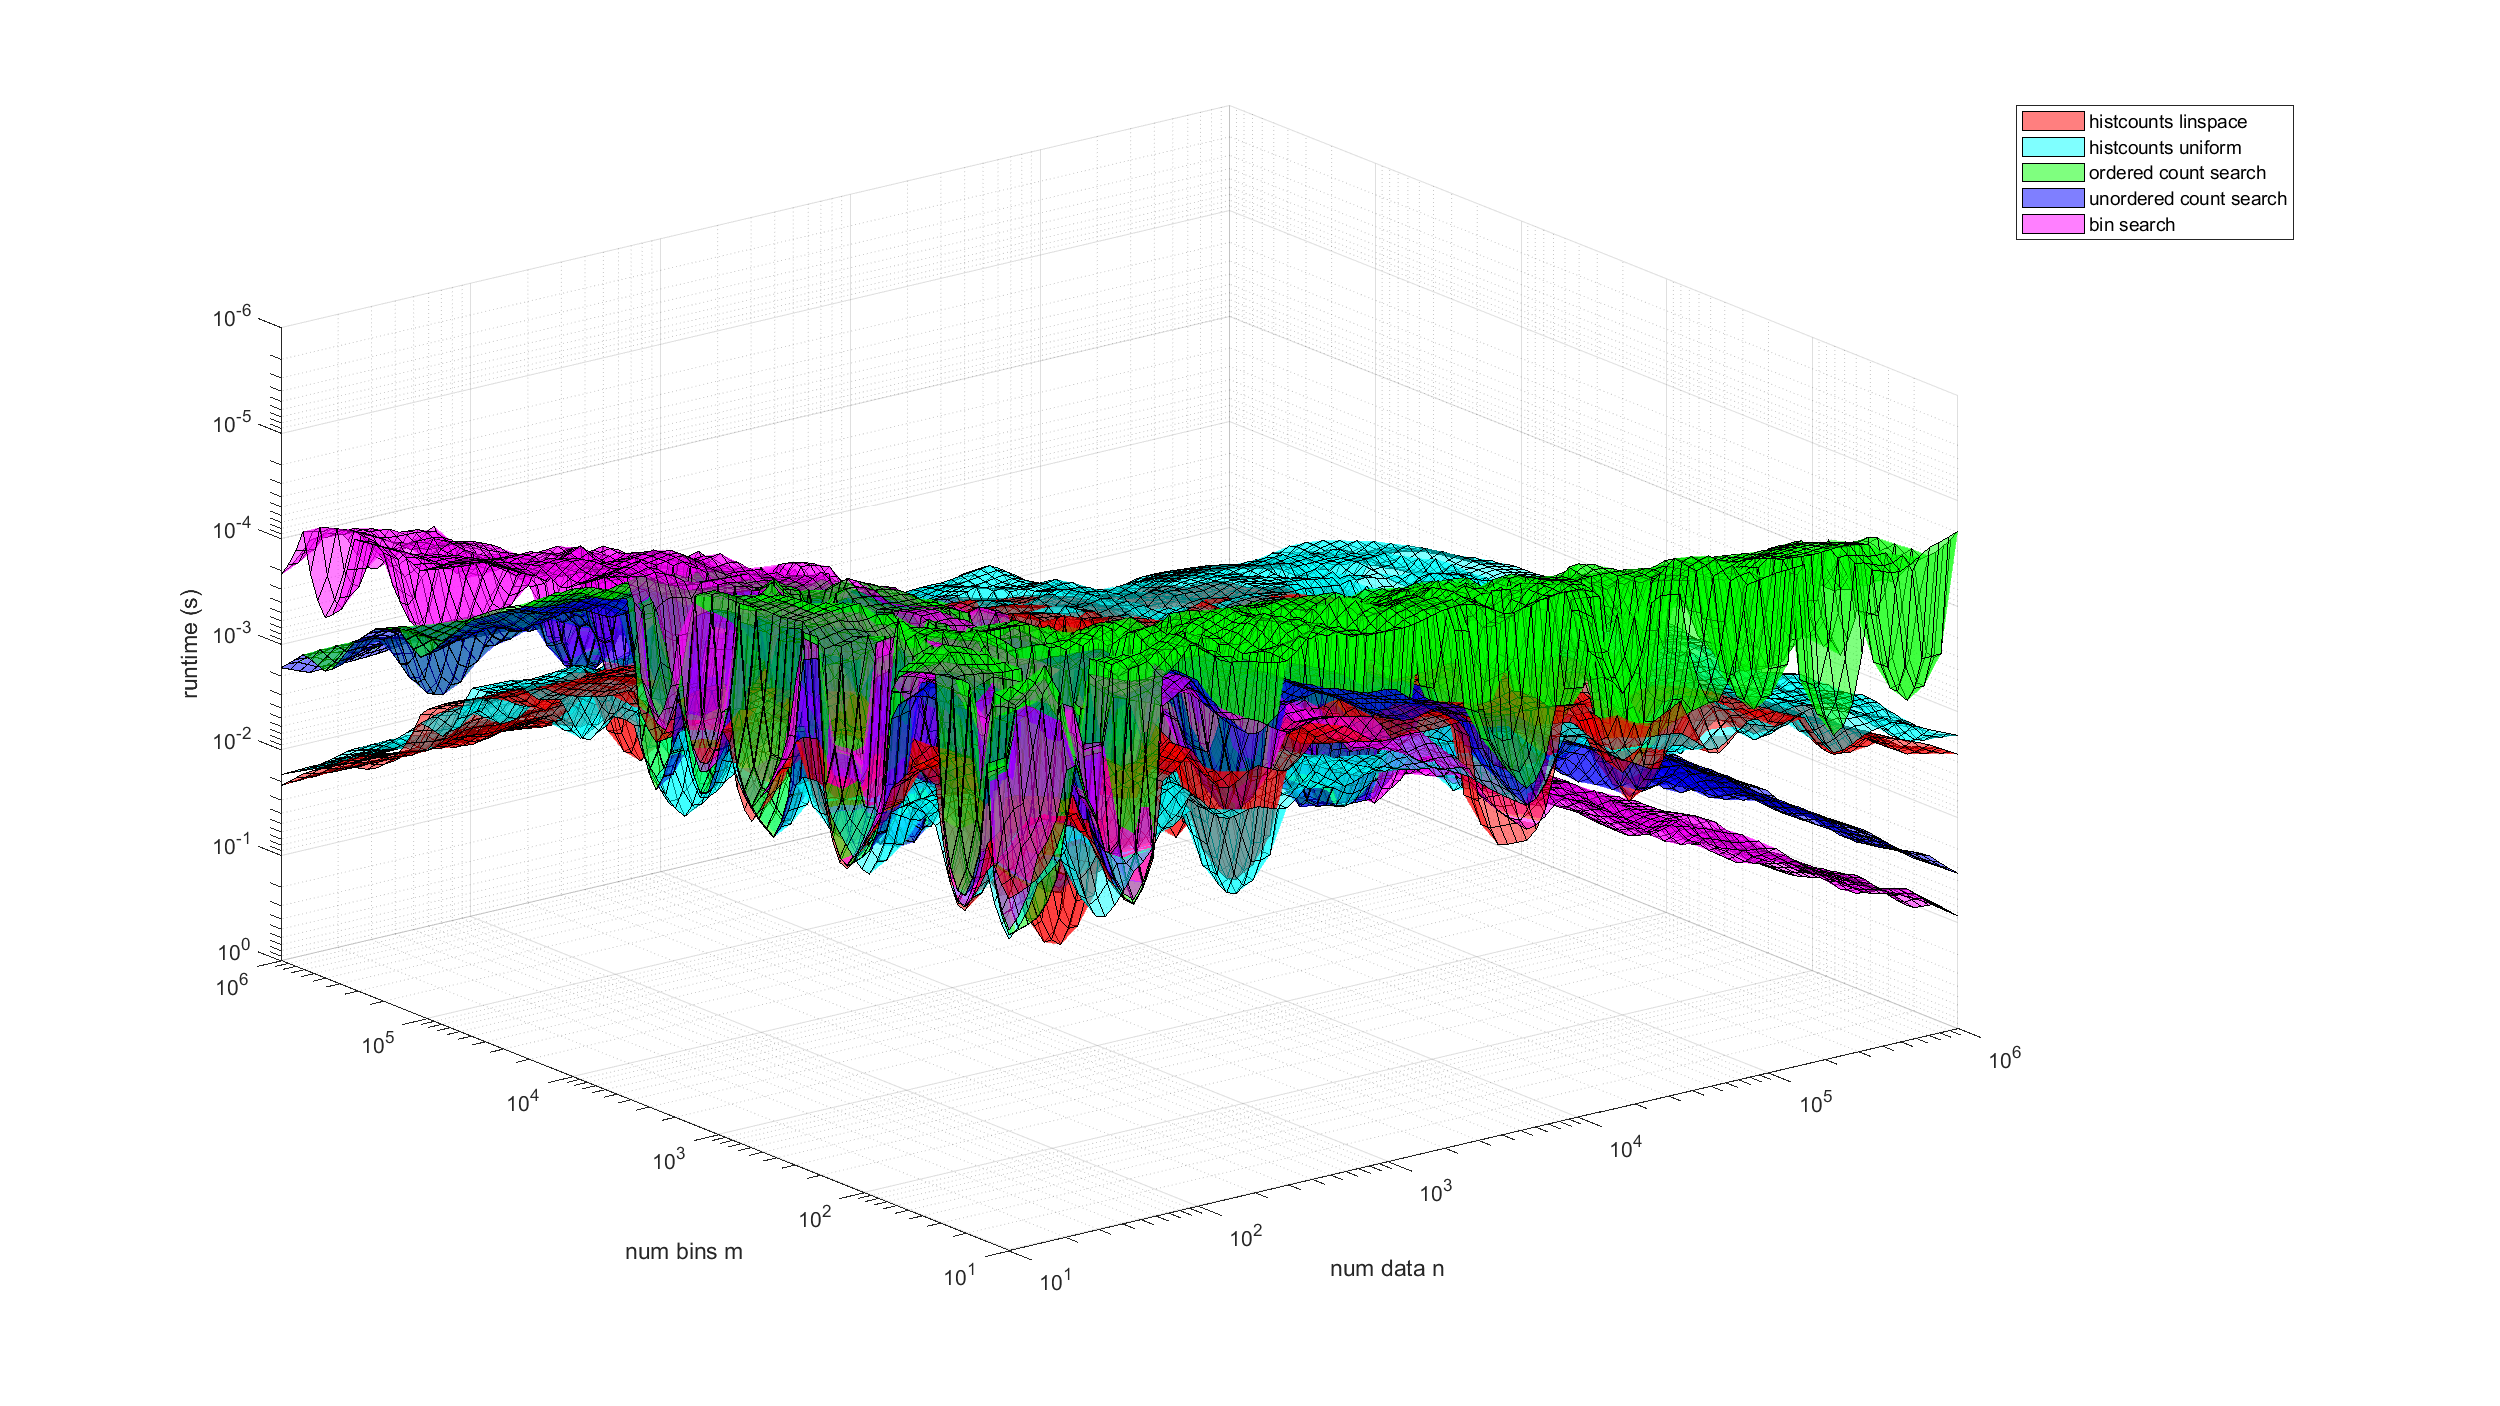
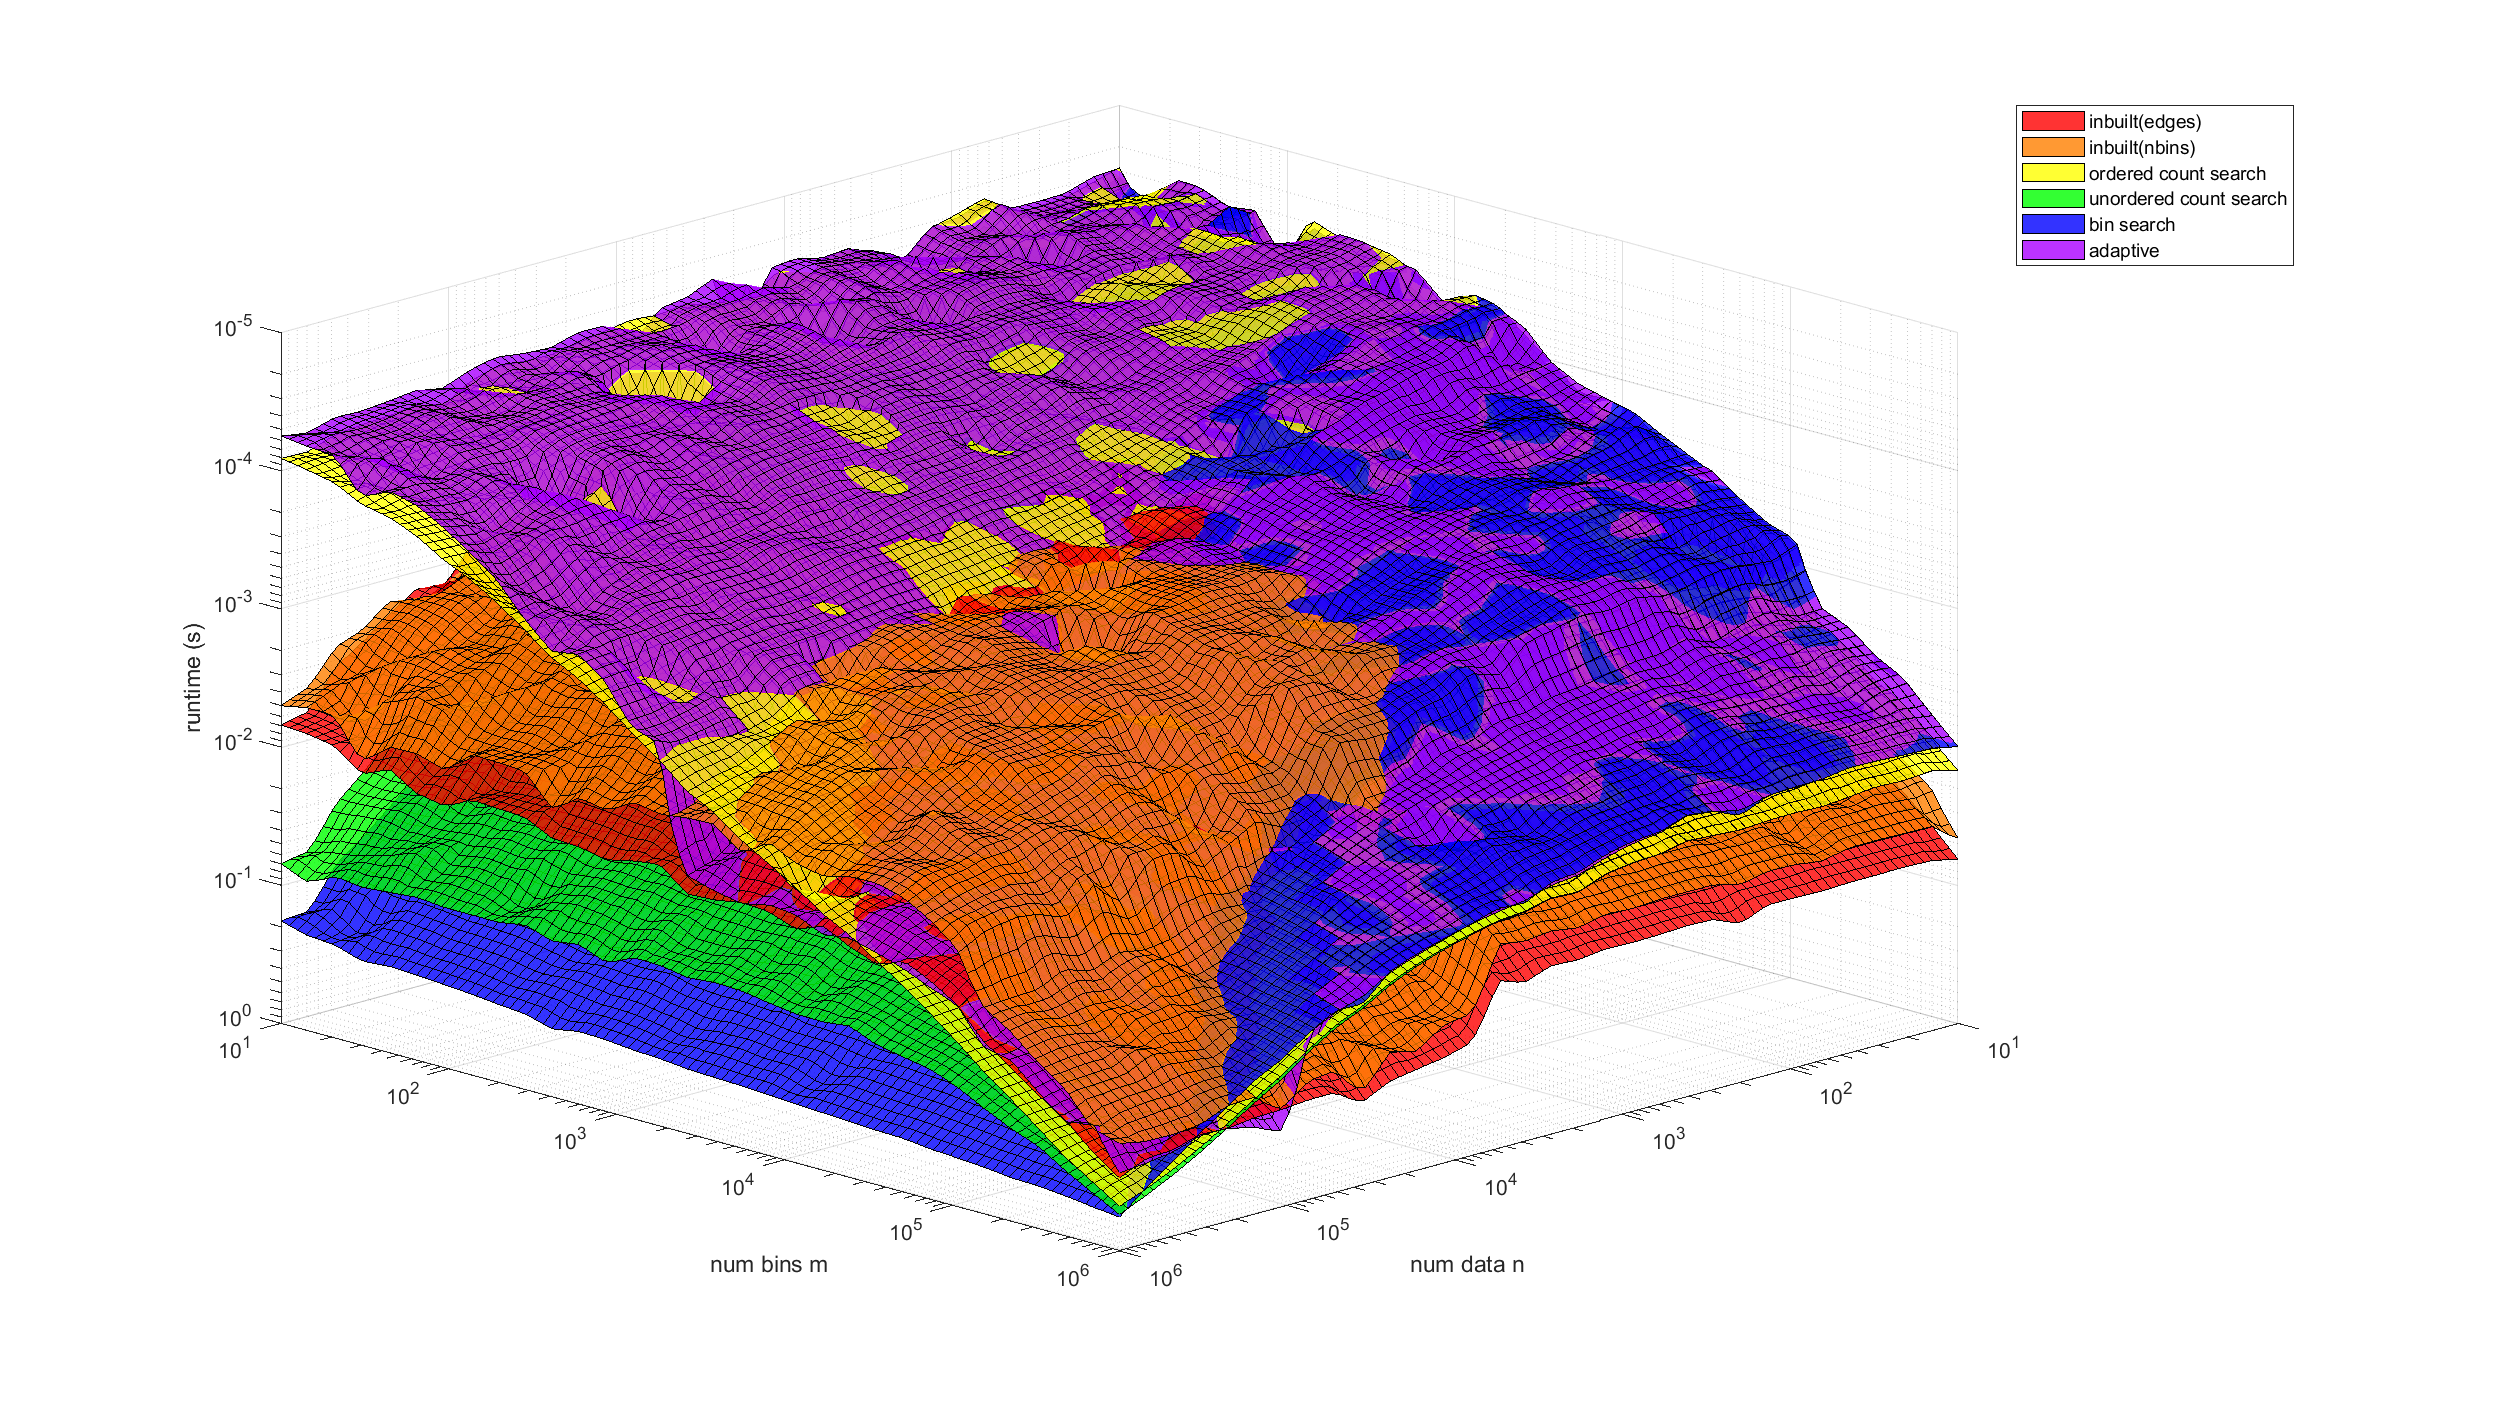
added more complexity to adaptive method & added it to the scalling test

diff --git a/scaling_test.m b/scaling_test.m
@@ -58,7 +58,7 @@ clf
 set(gcf,'color','w')
 set(gcf, 'Units', 'pixels', 'Position', [100, 100, 1600, 900])
 
-surface_colors= prism(5);
+surface_colors= prism(6);
 
 fprintf('  \n%04u:%04u',iimax,0) 
 for ii=1:iimax
@@ -72,10 +72,12 @@ for ii=1:iimax
     runtimes(ii,3)=meth_det.core_times.histcounts_nbins;
     runtimes(ii,4)=meth_det.core_times.hist_bin_search;
     runtimes(ii,5)=meth_det.core_times.hist_count_search-meth_det.aux_times.sort;
+    runtimes(ii,6)=meth_det.core_times.adaptive;
     
 
     ptime=posixtime(datetime('now'));
     if ptime-last_update>update_interval && ii>30 || ii==iimax
+        %TODO: clean this up, so much repeated code
         %matlab inbuilt histcounts(edges)
         f_interp= scatteredInterpolant(num_counts_vec(1:ii),...
             num_edges_vec(1:ii),runtimes(1:ii,2));
@@ -96,6 +98,10 @@ for ii=1:iimax
         f_interp = scatteredInterpolant(num_counts_vec(1:ii),...
             num_edges_vec(1:ii),runtimes(1:ii,4));
         time_bsearch_interp=f_interp(num_counts_query,num_edges_query);
+        %adaptive method
+         f_interp = scatteredInterpolant(num_counts_vec(1:ii),...
+            num_edges_vec(1:ii),runtimes(1:ii,6));
+        time_adaptive_interp=f_interp(num_counts_query,num_edges_query);
         
         surface_alpha=0.8;
         sfigure(1);
@@ -105,8 +111,9 @@ for ii=1:iimax
         surf(num_counts_query,num_edges_query,time_ocsearch_interp,'FaceAlpha',surface_alpha,'FaceColor', surface_colors(3,:))
         surf(num_counts_query,num_edges_query,time_ucsearch_interp,'FaceAlpha',surface_alpha,'FaceColor', surface_colors(4,:))
         surf(num_counts_query,num_edges_query,time_bsearch_interp,'FaceAlpha',surface_alpha,'FaceColor', surface_colors(5,:))
+        surf(num_counts_query,num_edges_query,time_adaptive_interp,'FaceAlpha',surface_alpha,'FaceColor', surface_colors(6,:))
         hold off
-        legend('inbuilt(edges)','inbuilt(nbins)','ordered count search','unordered count search','bin search')
+        legend('inbuilt(edges)','inbuilt(nbins)','ordered count search','unordered count search','bin search','adaptive')
         set(gca,'XScale','log','YScale','log','ZScale','log')
         set(gca, 'Zdir', 'reverse')
         xlabel('num data n')

diff --git a/compare_method_speeds.m b/compare_method_speeds.m
@@ -1,6 +1,9 @@
 function [best_method_str,details,best_method_num]=compare_method_speeds(x_dat,bin_lims,bins)
 % calculate the runtime of various histogram methods
 % also check that they return the same answers
+% TODO
+% -docs
+% -issorted flag
 
 meth_times=[];
 aux_times=[];
@@ -52,14 +55,24 @@ if ~isequal(out.histcounts_edges,out.hist_count_search)
     error('histcounts_edges and hist_count_search did not return the same output')
 end
 
+timer_handle=tic;
+out.adaptive=adaptive_hist_method(x_dat,edges,1);
+meth_times.adaptive=toc(timer_handle);
+
+if ~isequal(out.histcounts_edges,out.adaptive)
+    error('histcounts_edges and adaptive did not return the same output')
+end
+
+
+
 % to be perfectly fair the methods that used the edge vector must have the edge vector generation time added
 meth_times.histcounts_edges=aux_times.gen_edges+meth_times.histcounts_edges;
 meth_times.hist_bin_search=aux_times.gen_edges+meth_times.hist_bin_search;
 meth_times.hist_count_search=aux_times.gen_edges+meth_times.hist_count_search;
+meth_times.adaptive=aux_times.gen_edges+meth_times.adaptive; %TODO: deal better with the adaptive is_sorted case
 
 
 meth_times.hist_count_search=meth_times.hist_count_search+aux_times.sort;
-
 
 feild_names=fields(meth_times);
 [~,min_idx]=min(cell2mat(struct2cell(meth_times)));

diff --git a/test_search_based_hist.m b/test_search_based_hist.m
@@ -53,9 +53,12 @@ fprintf('equality testing : %s\n',logic_str{isequal(out1,out2)+1})
 data=rand(1e6,1);
 [best_method_str,meth_det]=compare_method_speeds(data,[0.5,1.1],1e2);
 
-%%
+
 
 %% randomized equality testing
+
+yn_logic_str={'no','yes'}; %for non critical cases
+
 iimax=100;
 for ii=1:iimax
 data=rand(ceil(1+rand(1)*1e6),1);
@@ -96,8 +99,8 @@ fprintf('equality testing matlab=adaptive_meth: %s\n',logic_str{is_count_search_
 if ~is_bin_search_right || ~is_count_search_right
     return
 end
-fprintf('Speedup test   bin_search            : %s \n',logic_str{(time_bin_search<time_inbuilt)+1})
-fprintf('Speedup test   count_search          : %s \n',logic_str{(time_count_search<time_inbuilt)+1})
-fprintf('Speedup test   adpative_meth         : %s \n',logic_str{(time_adaptive<time_inbuilt)+1})
+fprintf('Speedup test   bin_search            : %s \n',yn_logic_str{(time_bin_search<time_inbuilt)+1})
+fprintf('Speedup test   count_search          : %s \n',yn_logic_str{(time_count_search<time_inbuilt)+1})
+fprintf('Speedup test   adpative_meth         : %s \n',yn_logic_str{(time_adaptive<time_inbuilt)+1})
 end
 

diff --git a/adaptive_hist_method.m b/adaptive_hist_method.m
@@ -47,7 +47,7 @@ if is_x_sorted
     if edges_size<2e3
         bin_count=hist_count_search(x_dat,edges);
     else
-        if dat_size>1e3
+        if dat_size>1e3 && log10(dat_size)>log10(edges_size)-1
             %call histcounts with edges
             bin_count=histcounts(x_dat,[-inf;edges;inf])';
         else
@@ -55,7 +55,7 @@ if is_x_sorted
         end
     end
 else
-    if dat_size>1e3
+    if dat_size>1e3 && log10(dat_size)>log10(edges_size)-1
         %call histcounts with edges
         bin_count=histcounts(x_dat,[-inf;edges;inf])';
     else
